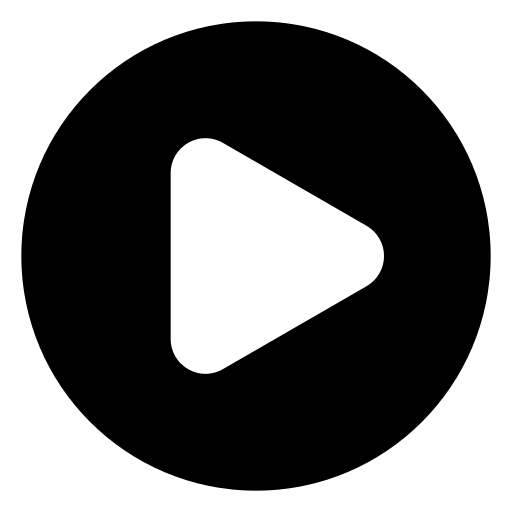
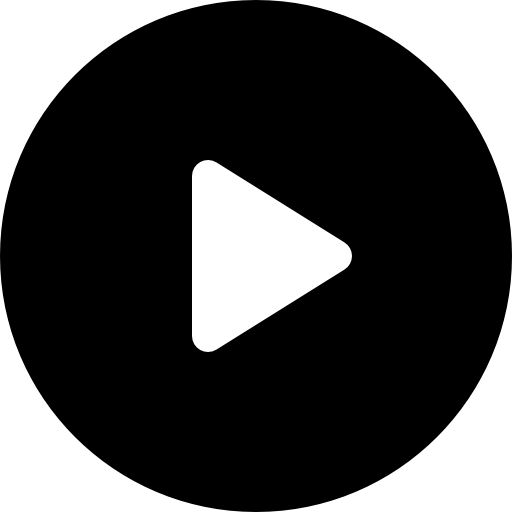
MainPage DynamicColor v1.0
MiniPage Dynamic + Fixed Slider colour

Changed region(s): [[0.0, 0.0, 1.0, 1.0], [0.3125, 0.25, 0.75, 0.75]]

diff --git a/PtasieRadio/Presentation/MainPage.xaml b/PtasieRadio/Presentation/MainPage.xaml
@@ -397,54 +397,20 @@
                             x:Name="MiniPlayButton"
                             Command="{Binding PlayRadioCommand}"
                             Tapped="PlayPauseButtonTappedEvent">
-                        <Image Source="{Binding MiniPlayPauseButtonImage}"
-                               Stretch="Uniform"
-                               Width="20"
-                               Height="20"
-                               x:Name="MiniPlayButtonImage"/>
+                        <Path Width="24"
+                            Height="24"
+                            Stretch="Uniform"
+                            Fill="{StaticResource IconColor}"
+                            Data="{Binding MiniPlayPauseButtonImage}"
+                            x:Name="MiniPlayButtonImage">
+                            <Path.RenderTransform>
+                        <TransformGroup>
+                            <ScaleTransform ScaleY="-1" CenterY="12"/>
+                        </TransformGroup>
+                    </Path.RenderTransform> 
+                           </Path>   
                     </Button>
-<!-- tutaj trzeba fabiana -->
-<!-- mini_play.svg
-<Path Width="24"
-      Height="24"
-      Stretch="Uniform"
-      Fill="{StaticResource IconColor}"
-      Data="M570 2994 c-53 -10 -147 -48 -198 -80 -111 -71 -189 -180 -222 -310
--20 -79 -20 -103 -18 -1135 l3 -1054 23 -60 c84 -224 298 -367 527 -352 44 2
-106 14 137 25 32 11 455 249 940 529 798 460 888 514 950 574 209 203 208 535
--2 739 -56 55 -121 96 -401 257 -184 105 -581 334 -883 508 -302 174 -574 326
--605 337 -55 19 -199 32 -251 22z">
-    <Path.RenderTransform>
-        <TransformGroup>
-            <ScaleTransform ScaleY="-1" CenterY="12"/>
-            <TranslateTransform Y="-4"/>
-        </TransformGroup>
-    </Path.RenderTransform>
-</Path>
-
-
-mini_pause.svg
-
-<Path Width="24"
-      Height="24"
-      Stretch="Uniform"
-      Fill="{StaticResource IconColor}"
-      Data="M598 2981 c-122 -39 -206 -113 -261 -229 l-32 -67 0 -1185 0 -1185
-32 -67 c89 -189 295 -288 484 -232 145 43 243 135 290 272 18 53 19 102 19
-1212 0 1110 -1 1159 -19 1212 -74 215 -304 335 -513 269z
-M2170 2981 c-77 -25 -115 -46 -168 -94 -55 -51 -88 -102 -113 -175
--18 -53 -19 -102 -19 -1212 0 -1110 1 -1159 19 -1212 47 -137 145 -229 290
--272 189 -56 395 43 484 232 l32 67 0 1185 0 1185 -32 67 c-91 192 -303 291
--493 229z">
-    <Path.RenderTransform>
-        <TransformGroup>
-            <ScaleTransform ScaleY="-1" CenterY="12"/>
-            <TranslateTransform Y="-4"/>
-        </TransformGroup>
-    </Path.RenderTransform>
-</Path>
- -->
-
+<!-- tutaj trzeba fabiana mini_play.svg mini_pause.svg -->
 
                     <Button Background="Transparent"
                             x:Name="MiniHeartButton"
@@ -733,10 +699,19 @@ M2170 2981 c-77 -25 -115 -46 -168 -94 -55 -51 -88 -102 -113 -175
                         Height="40"
                         Padding="0"
                         Tapped="ArrowTapped">
-                    <Image Source="ms-appx:///Assets/Images/arrow_down.png"
-                           Width="20"
-                           Height="20"
-                           Stretch="Uniform"/>
+                    <Path Width="24"
+                        Height="24"
+                        Stretch="Uniform"
+                        Fill="{StaticResource IconColor}"
+                        Data="M530 7039 c-81 -6 -124 -20 -214 -68 -136 -72 -262 -230 -299 -376 -14 -52 -13 -289 0 -340 14 -53 40 -112 53 -120 5 -3 10 -13 10 -22 0 -8 14 -34 32 -57 46 -61 3914 -3930 3978 -3980 66 -52 135 -91 207 -118 78 -29 308 -29 386 0 72 27 141 66 207 118 64 50 3932 3919 3978 3980 18 23 32 49 32 57 0 9 4 19 10 22 13 8 50 93 50 115 0 29 11 50 26 50 11 0 14 25 14 125 0 100 -3 125 -14 125 -15 0 -26 21 -26 50 0 11 -16 54 -37 97 -29 62 -53 95 -122 163 -83 82 -124 109 -254 164 -54 23 -320 23 -374 0 -79 -34 -110 -49 -163 -83 -37 -23 -634 -613 -1780 -1758 -949 -947 -1732 -1723 -1740 -1723 -8 0 -791 776 -1740 1723 -1146 1145 -1743 1735 -1780 1758 -148 93 -239 114 -440 98z">        
+                    <Path.RenderTransform>
+                        <TransformGroup>
+                            <ScaleTransform ScaleY="-1" CenterY="12"/>
+                            <TranslateTransform Y="-10"/>
+                        </TransformGroup>
+                    </Path.RenderTransform> 
+                </Path>
+                           <!-- arrow_down.svg -->
                 </Button>
 
                 <!-- Tekst i flaga -->
@@ -800,6 +775,9 @@ M2170 2981 c-77 -25 -115 -46 -168 -94 -55 -51 -88 -102 -113 -175
                         Foreground="{StaticResource TextColor}"
                         Background="{StaticResource SecondaryColor}"
                         ValueChanged="OnSoundLevelSliderValueChanged">
+                        <Slider.Resources>
+        <SolidColorBrush x:Key="SliderThumbBackground" Color="{ThemeResource IconColor}" />
+    </Slider.Resources>
                 </Slider>
 
                 <!-- mute/unmute button -->
@@ -810,11 +788,19 @@ M2170 2981 c-77 -25 -115 -46 -168 -94 -55 -51 -88 -102 -113 -175
                         HorizontalAlignment="Center"
                         Command="{Binding ToggleMuteCommand}">
                     <Button.Content>
-                        <Image Source="{Binding MuteButtonImage}"
+                        <Path  Data="{Binding MuteButtonImage}"
                                x:Name="MuteUnmuteButtonImage"
                                Width="48"
                                Height="48"
-                               Stretch="Uniform"/>
+                               Stretch="Uniform"
+                               Fill="{StaticResource IconColor}">
+                            <Path.RenderTransform>
+                                <TransformGroup>
+                                    <ScaleTransform ScaleY="-1" CenterY="12"/>
+                                    <TranslateTransform Y="12"/>
+                                </TransformGroup>
+                            </Path.RenderTransform>
+                        </Path>
                     </Button.Content>
                 </Button>
 
@@ -865,11 +851,19 @@ M2170 2981 c-77 -25 -115 -46 -168 -94 -55 -51 -88 -102 -113 -175
                         Command="{Binding PlayRadioCommand}"
                         Tapped="PlayPauseButtonTappedEvent">
                     <Button.Content>
-                        <Image Source="{Binding PlayPauseButtonImage}"
+                        <Path  Data="{Binding PlayPauseButtonImage}"
                                x:Name="PlayButtonImage"
+                               Fill="{StaticResource IconColor}"
                                Width="48"
                                Height="48"
-                               Stretch="Uniform"/>
+                               Stretch="Uniform">
+                            <Path.RenderTransform>
+                                <TransformGroup>
+                                    <ScaleTransform ScaleY="-1" CenterY="12"/>
+                                    <TranslateTransform Y="20"/>
+                                </TransformGroup>
+                            </Path.RenderTransform>
+                        </Path>
                     </Button.Content>
                 </Button>
             </StackPanel>

diff --git a/PtasieRadio/Presentation/MainModel.cs b/PtasieRadio/Presentation/MainModel.cs
@@ -44,8 +44,10 @@ public class MainModel : ObservableObject
         }
     }
     public string MuteButtonImage => IsMuted
-    ? "ms-appx:///Assets/Images/speaker_muted_round.png"
-    : "ms-appx:///Assets/Images/speaker_round.png";
+    ? "M1355 2993 c-201 -24 -375 -76 -544 -163 -411 -213 -697 -599 -788 -1065 -24 -125 -24 -405 0 -530 29 -148 74 -279 142 -413 316 -622 1021 -945 1696 -777 127 32 209 64 339 131 401 208 687 598 777 1059 25 128 24 396 -1 530 -135 721 -763 1242 -1486 1233 -58 0 -118 -3 -135 -5z m-342 -597 c18 -8 102 -84 187 -170 85 -86 159 -156 163 -156 5 0 102 74 215 164 114 90 217 166 229 170 26 8 78 -15 87 -39 3 -9 6 -202 6 -428 l0 -411 220 -221 c209 -210 220 -223 220 -259 0 -48 -13 -72 -52 -92 -66 -34 -46 -51 -751 654 -626 626 -657 659 -657 693 0 40 29 85 64 99 29 12 32 12 69 -4z m67 -896 l0 -340 -181 0 -181 0 -29 29 -29 29 0 282 0 282 29 29 29 29 181 0 181 0 0 -340z m820 -658 c0 -106 -4 -201 -10 -211 -13 -25 -61 -44 -87 -34 -11 4 -149 109 -307 233 l-285 225 -1 335 0 335 345 -345 345 -345 0 -193z"
+    // muted
+    : "M1355 2993 c-201 -24 -375 -76 -544 -163 -411 -213 -697 -599 -788 -1065 -24 -125 -24 -405 0 -530 29 -148 74 -279 142 -413 316 -622 1021 -945 1696 -777 127 32 209 64 339 131 401 208 687 598 777 1059 25 128 24 396 -1 530 -135 721 -763 1242 -1486 1233 -58 0 -118 -3 -135 -5z m220 -738 l25 -24 0 -731 0 -731 -26 -25 c-19 -20 -31 -24 -50 -20 -14 4 -138 95 -275 204 l-249 197 0 375 0 375 246 195 c136 107 254 198 263 202 28 12 41 9 66 -17z m612 -184 c141 -111 239 -293 263 -487 30 -242 -77 -508 -263 -655 -57 -46 -93 -50 -131 -14 -18 17 -26 34 -26 59 0 29 11 45 79 114 119 120 174 250 174 412 0 162 -55 292 -174 412 -68 69 -79 85 -79 114 0 25 8 42 26 59 38 36 74 32 131 -14z m-247 -266 c91 -67 150 -187 150 -305 0 -118 -59 -238 -149 -304 -60 -44 -91 -52 -129 -32 -34 17 -42 33 -42 81 0 29 7 40 47 70 80 61 98 95 98 185 0 90 -18 124 -98 185 -41 32 -47 40 -47 74 0 39 12 61 45 80 30 17 71 5 125 -34z m-1050 -305 l0 -290 -152 0 c-160 1 -174 4 -196 47 -16 30 -16 456 0 486 22 43 36 46 196 47 l152 0 0 -290z";
+    // unmuted
 
     private double _Volume;
     public double Volume
@@ -82,13 +84,14 @@ public class MainModel : ObservableObject
         }
     }
     public string PlayPauseButtonImage => isPlaying
-    ? "ms-appx:///Assets/Images/pause_round.png"
-    : "ms-appx:///Assets/Images/play_round.png";
-
+    ? "M1295 2984 c-335 -51 -593 -177 -828 -404 -259 -249 -399 -522 -451 -881 -34 -232 -5 -500 79 -725 42 -109 130 -271 199 -364 83 -111 259 -280 366 -351 458 -305 1025 -342 1513 -98 192 96 401 272 533 449 228 306 333 716 278 1089 -49 338 -175 597 -404 834 -249 259 -522 399 -881 451 -128 19 -281 19 -404 0z m-37 -971 c15 -11 37 -35 50 -53 22 -33 22 -36 23 -429 1 -218 0 -409 -1 -426 -6 -93 -99 -159 -197 -140 -49 9 -108 68 -122 123 -8 29 -11 165 -9 440 l3 398 25 37 c38 55 85 78 148 74 32 -2 63 -11 80 -24z m652 4 c30 -16 51 -37 67 -67 23 -43 23 -45 23 -449 0 -402 0 -407 -22 -451 -61 -120 -234 -117 -292 3 -14 31 -16 86 -16 445 0 267 4 421 11 439 34 92 139 128 229 80z"
+    // pause_round.svg 
+    : "M1295 2984 c-335 -51 -593 -177 -828 -404 -259 -249 -399 -522 -451 -881 -34 -232 -5 -500 79 -725 42 -109 130 -271 199 -364 83 -111 259 -280 366 -351 458 -305 1025 -342 1513 -98 192 96 401 272 533 449 228 306 333 716 278 1089 -49 338 -175 597 -404 834 -249 259 -522 399 -881 451 -128 19 -281 19 -404 0z m11 -960 c213 -128 710 -443 730 -463 33 -33 33 -89 0 -122 -20 -20 -517 -335 -730 -463 -92 -56 -154 -44 -176 32 -14 50 -14 934 0 984 22 76 84 88 176 32z";
+    //play_round.svg 
     public string MiniPlayPauseButtonImage => isPlaying
-    ? "ms-appx:///Assets/Images/mini_pause.png"
-    : "ms-appx:///Assets/Images/mini_play.png";
-
+    ? "M598 2981 c-122 -39 -206 -113 -261 -229 l-32 -67 0 -1185 0 -1185 32 -67 c89 -189 295 -288 484 -232 145 43 243 135 290 272 18 53 19 102 19 1212 0 1110 -1 1159 -19 1212 -74 215 -304 335 -513 269z M2170 2981 c-77 -25 -115 -46 -168 -94 -55 -51 -88 -102 -113 -175 -18 -53 -19 -102 -19 -1212 0 -1110 1 -1159 19 -1212 47 -137 145 -229 290 -272 189 -56 395 43 484 232 l32 67 0 1185 0 1185 -32 67 c-91 192 -303 291 -493 229z"
+    : "M570 2994 c-53 -10 -147 -48 -198 -80 -111 -71 -189 -180 -222 -310 -20 -79 -20 -103 -18 -1135 l3 -1054 23 -60 c84 -224 298 -367 527 -352 44 2 106 14 137 25 32 11 455 249 940 529 798 460 888 514 950 574 209 203 208 535 -2 739 -56 55 -121 96 -401 257 -184 105 -581 334 -883 508 -302 174 -574 326 -605 337 -55 19 -199 32 -251 22z";
+// mini_play.svg mini_pause.svg
     public string? Title { get; }
 
     public IState<string> Name => State<string>.Value(this, () => string.Empty);